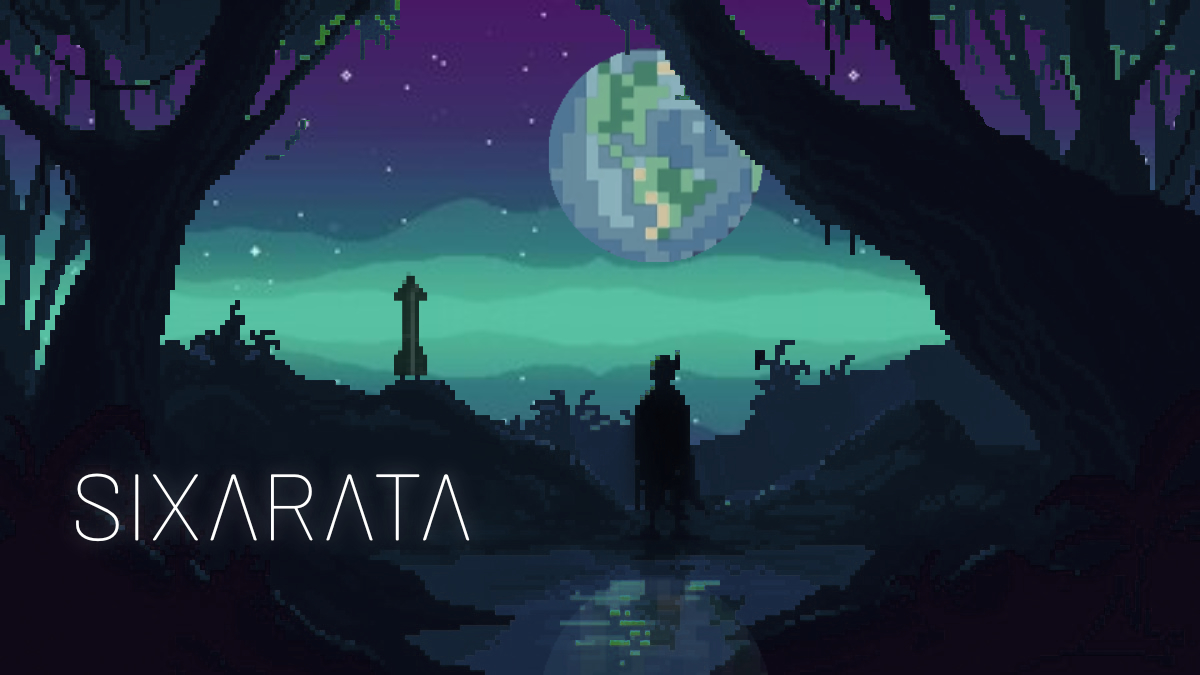
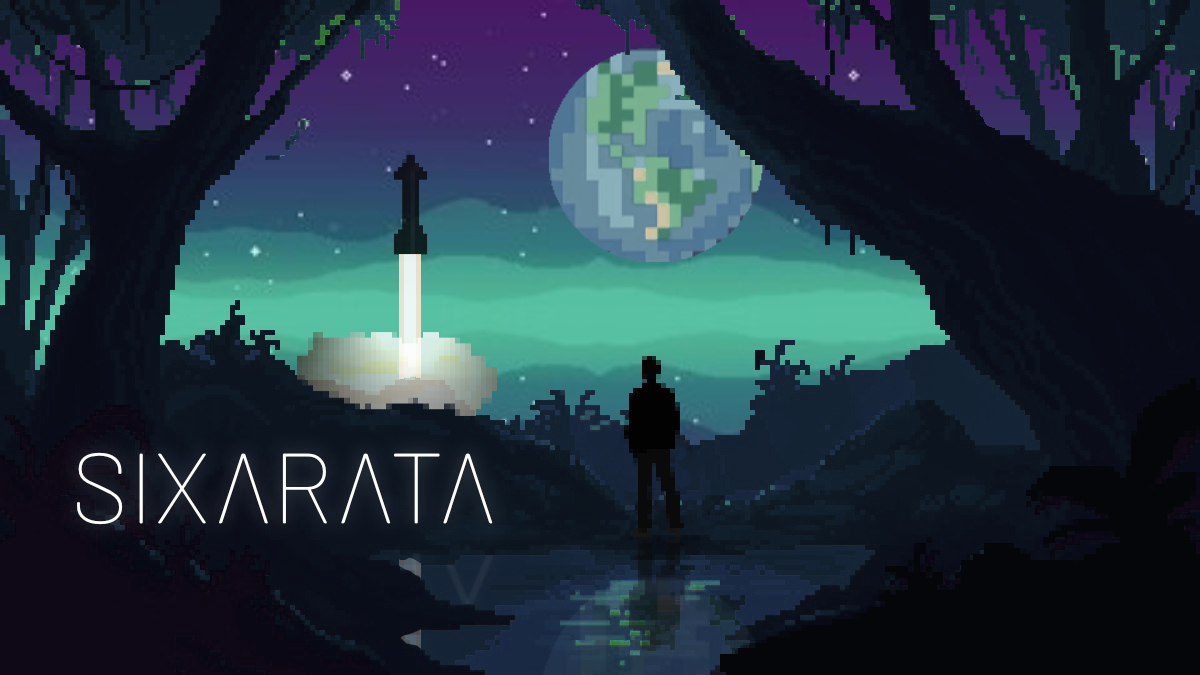
starship detils

diff --git a/src/components/OpenMPT.svelte b/src/components/OpenMPT.svelte
@@ -23,6 +23,9 @@
 
   const loadTrack = () => {
     window['libopenmpt'] = {};
+    libopenmpt.locateFile = (filename) => {
+      return "//cdn.jsdelivr.net/gh/deskjet/chiptune2.js@master/" + filename;
+    };
     libopenmpt.onRuntimeInitialized = () => {
       player = new ChiptuneJsPlayer(new ChiptuneJsConfig(-1));
       const afterLoad = (path, buffer) => player.play(buffer);

diff --git a/src/App.svelte b/src/App.svelte
@@ -27,7 +27,9 @@
   <OpenMPT track={selectedTrack}/>
 </div>
 {:else}
+<div class="relative text-center">
   <button on:click={() => showGame = true}>LOAD GAME</button>
+  </div>
 {/if}
 
 
@@ -67,6 +69,9 @@
   }
   .text-right {
     text-align: right;
+  }
+  .text-center {
+    text-align: center;
   }
   .w-20 {
     width: 3rem;
